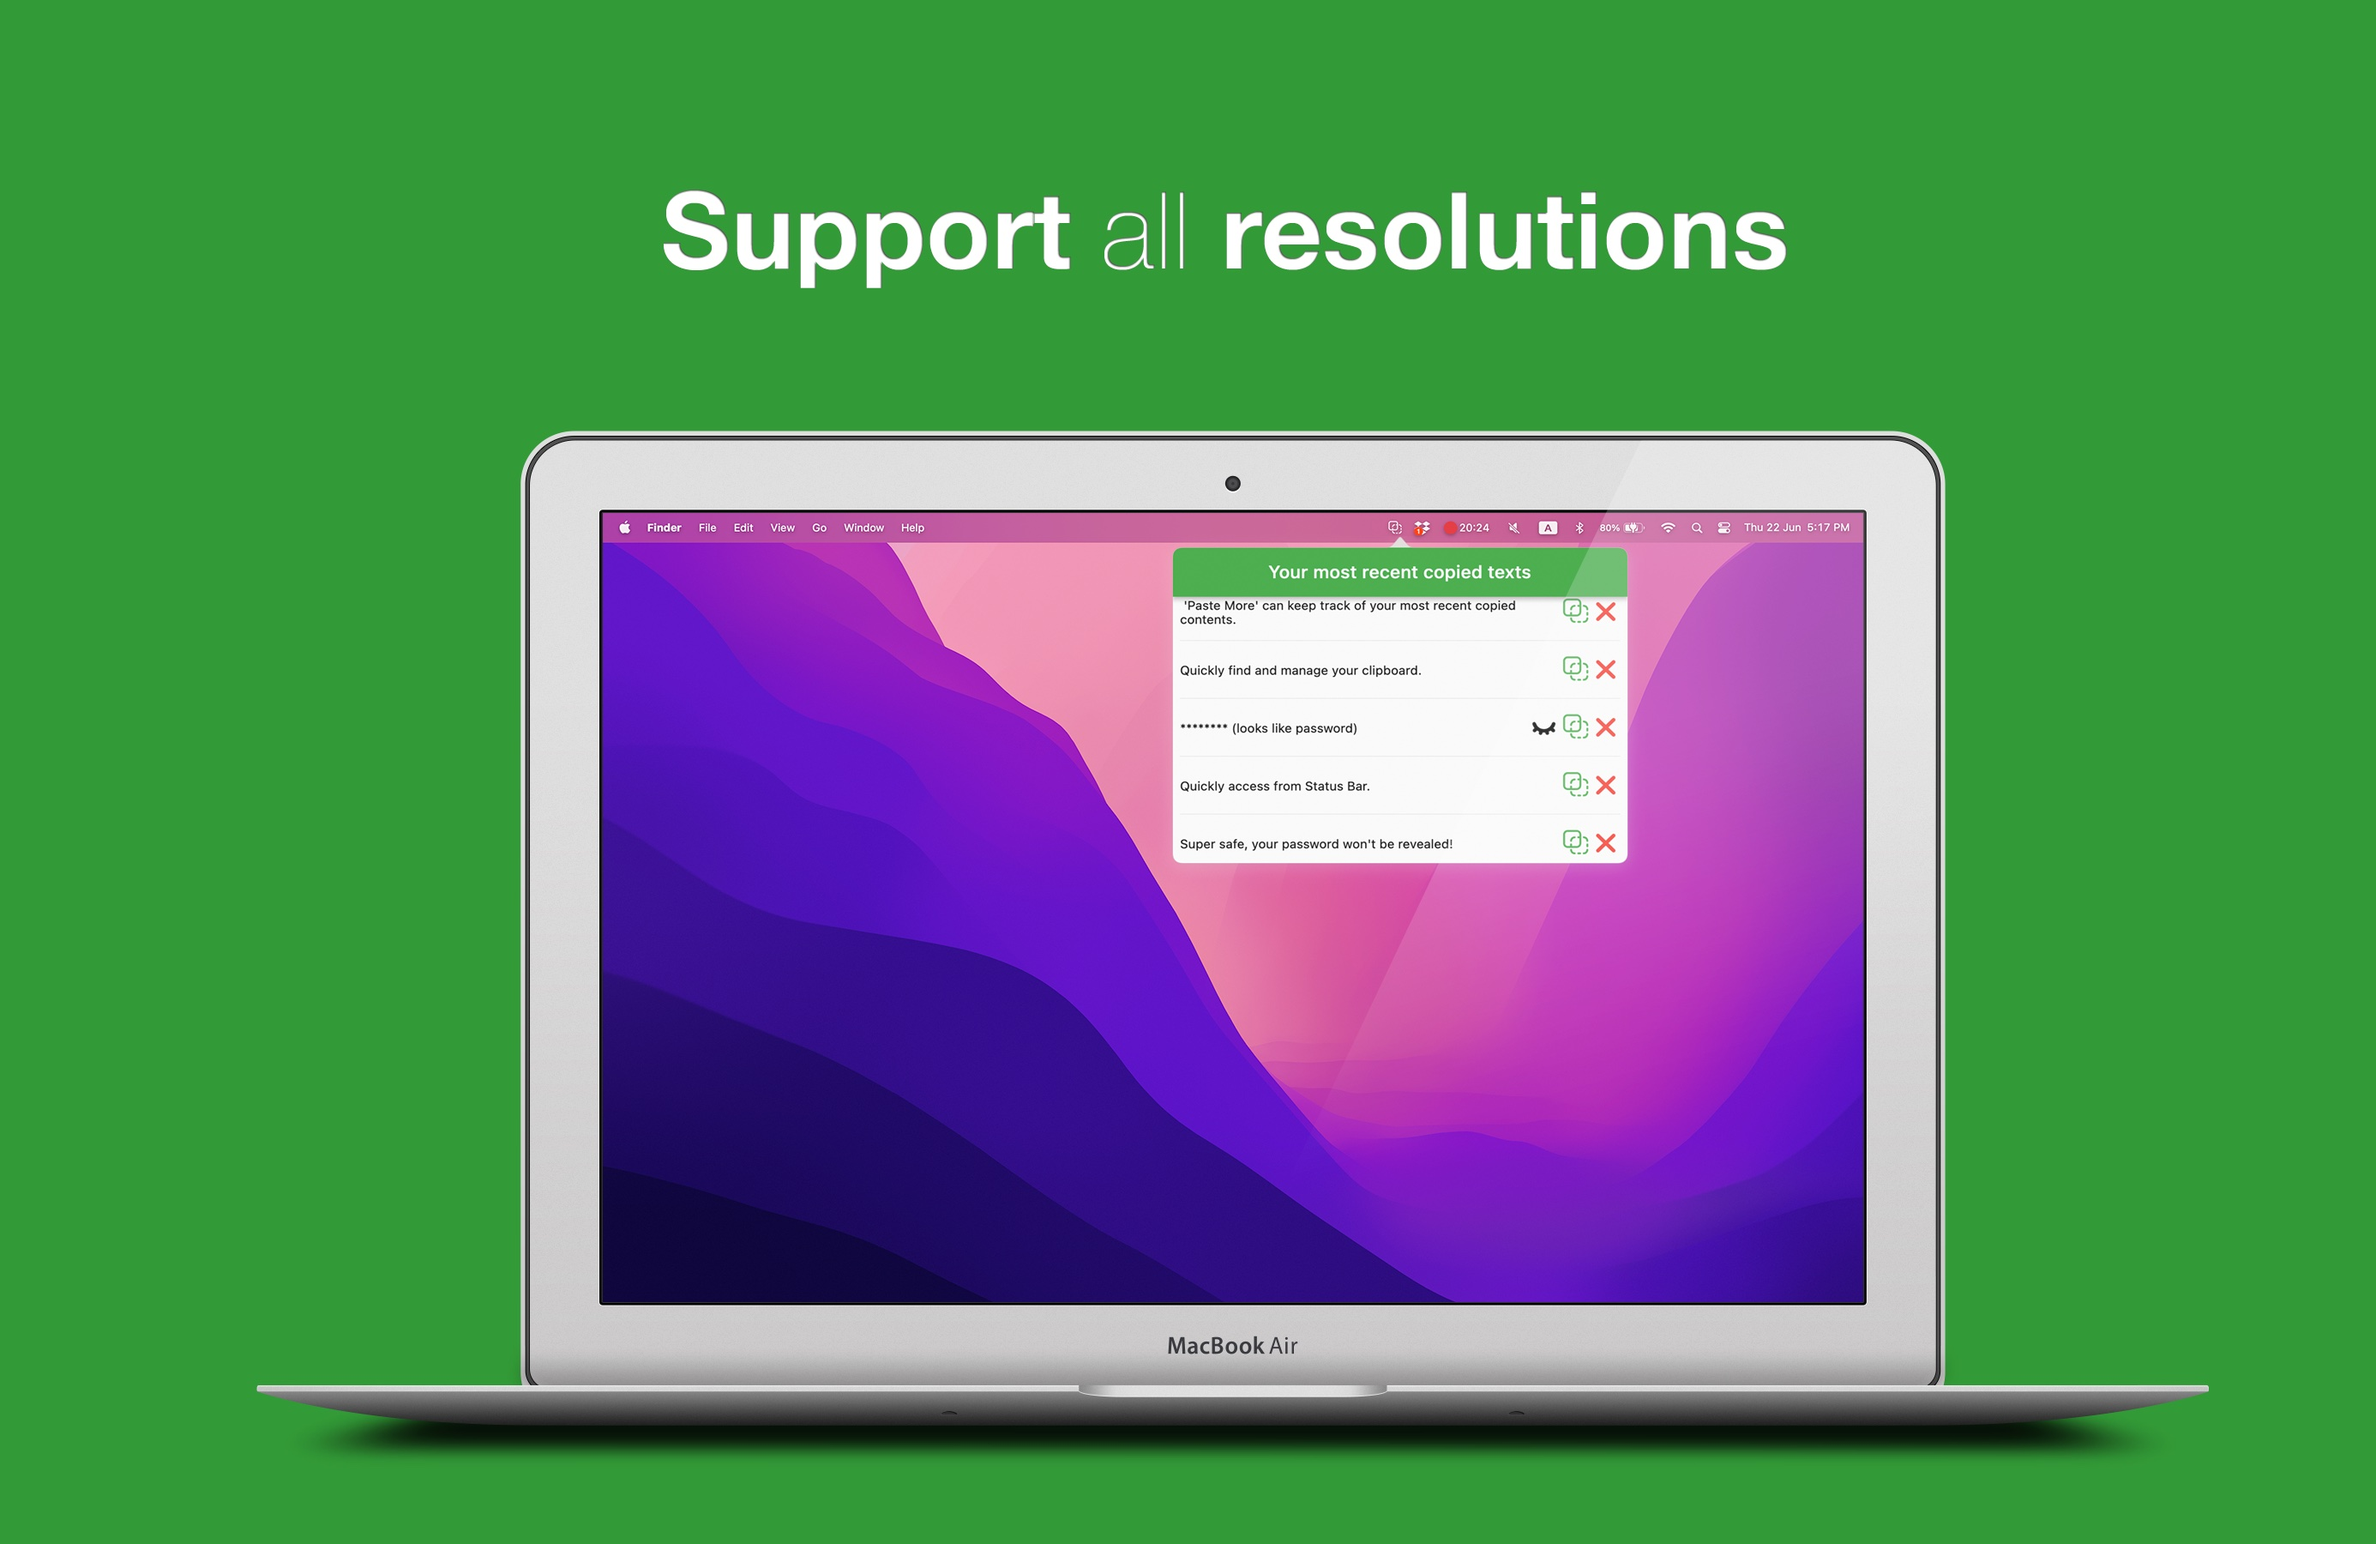
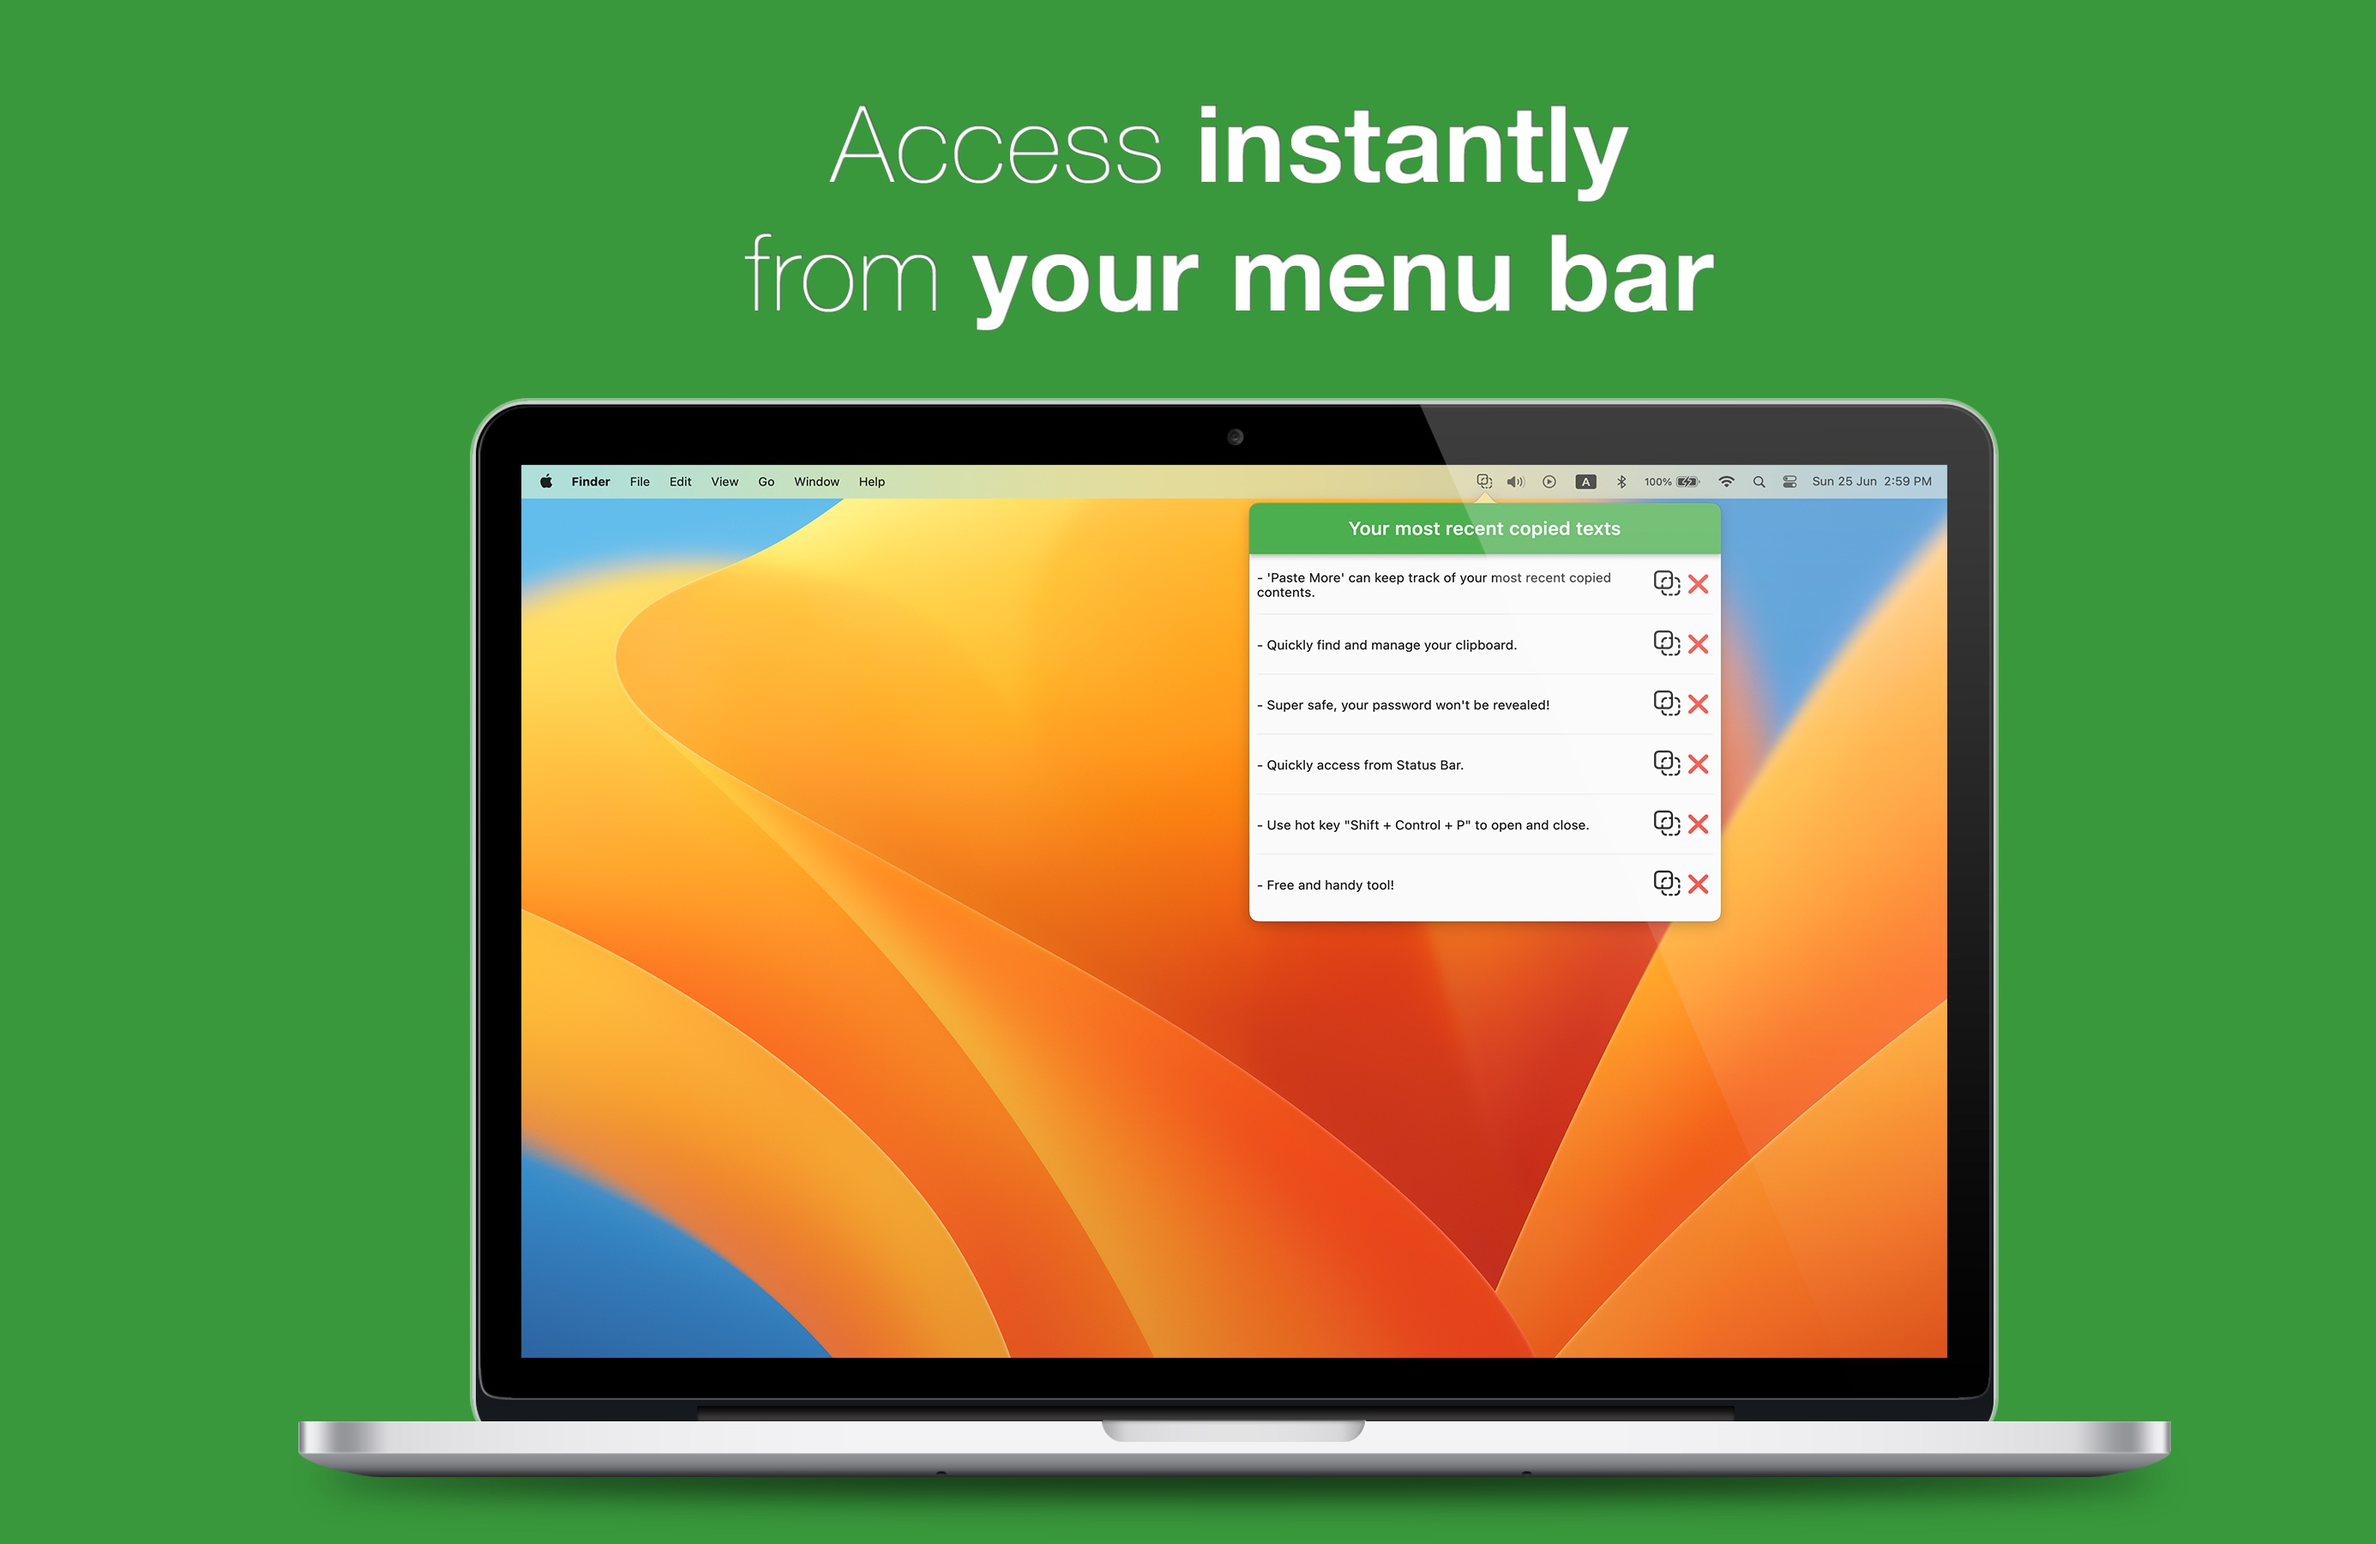
Add Paste More Update json

diff --git a/_posts/2023-06-22-paste-more.md b/_posts/2023-06-22-paste-more.md
@@ -11,13 +11,16 @@ permalink: /paste_more
 
 ![Banner](/docs/assets/paste_more/feature_ad.png)
 
-Tired of mistakes while copying & pasting on Mac?
-- 'Paste More' can keep track of your most recent copied contents.
+Have you ever wanted to copy and paste continuously on your Mac but you couldn't find your old copied texts?
+
+Have you ever got really frustrated because instead of copy content A and paste into content B, you copy the content B and lose your access to content A?
+
+- 'Paste More' can keep track of your most recent copied texts.
 - Quickly find and manage your clipboard.
 - Super safe, your password won't be revealed!
 - Quickly access from Status Bar.
-
-# Get it from
+- Use hot key "Shift + Control + P" to open and close.
+- Free and handy tool!
 
 [![Support Us and Get It](/docs/assets/general/support-us-and-get-it.png)](https://ko-fi.com/s/d45e11c147)
 
@@ -30,3 +33,5 @@ Tired of mistakes while copying & pasting on Mac?
 ![Screenshot3](/docs/assets/paste_more/screenshot_3.jpg)
 
 ![Screenshot4](/docs/assets/paste_more/screenshot_4.jpg)
+
+![Screenshot5](/docs/assets/paste_more/screenshot_5.jpg)

diff --git a/index.md b/index.md
@@ -2,17 +2,9 @@
 
 We're building iOS, Android and Mac apps for free, please support us so we can continue delivering great apps!
 
-Check our apps:
-
-[![Paste More](/docs/assets/paste_more/feature_ad.png)](https://ko-fi.com/s/d45e11c147)
-
-[![2 x 2 x 2](/docs/assets/2x2x2/feature_ad.png)](https://ko-fi.com/s/2ab4c4ce30)
-
-[![Yummy Tiger](/docs/assets/yummy_tiger/feature_ad.png)](https://ko-fi.com/s/92e2cbb11b)
-
-
-Or Support us:
-
-[![Buy Us a Coffee](/docs/assets/general/buy-us-a-coffee.png)](https://ko-fi.com/kandeeworld)
+|Check our apps|[![Buy Us a Coffee](/docs/assets/general/buy-us-a-coffee.png)](https://ko-fi.com/kandeeworld)|
+|:-:|:-:|
+|[![Paste More](/docs/assets/paste_more/promo_ad.png)](https://ko-fi.com/s/d45e11c147)|[![2 x 2 x 2](/docs/assets/2x2x2/promo_ad.png)](https://ko-fi.com/s/2ab4c4ce30) |
+|[![Yummy Tiger](/docs/assets/yummy_tiger/promo_ad.png)](https://ko-fi.com/s/92e2cbb11b)| More coming soon|
 
 Thank you :)

diff --git a/_posts/2023-06-01-catch-it.md b/_posts/2023-06-01-catch-it.md
@@ -17,8 +17,6 @@ May and Jun need to stop his evil plan by breaking into his factory and rescue t
 
 You can help May and Jun to save the world. Jun will throw the sweets from behind the wall. You can control May to CATCH IT ALL!
 
-# Register beta from
-
 [![Test Flight](/docs/assets/general/testflight_badge.png)](mailto:support@kandee.world)
 
 # More screenshots:

diff --git a/_posts/2023-06-02-2x2x2.md b/_posts/2023-06-02-2x2x2.md
@@ -19,8 +19,6 @@ Play this beautiful and addicted game with your kids to grow their maths, and tr
 - Swipe anywhere to play, easy to learn.
 - Colorful design for everybody.
 
-# Get it from
-
 [![Support Us and Get It](/docs/assets/general/support-us-and-get-it.png)](https://ko-fi.com/s/2ab4c4ce30)
 
 # More screenshots:

diff --git a/_posts/2023-06-03-yummy-tiger.md b/_posts/2023-06-03-yummy-tiger.md
@@ -18,8 +18,6 @@ Very SIMPLE and ADDICTIVE Game!
 
 Enjoy your Jungle experience! 
 
-# Get it from
-
 [![Support Us and Get It](/docs/assets/general/support-us-and-get-it.png)](https://ko-fi.com/s/92e2cbb11b)
 
 # More screenshots:
